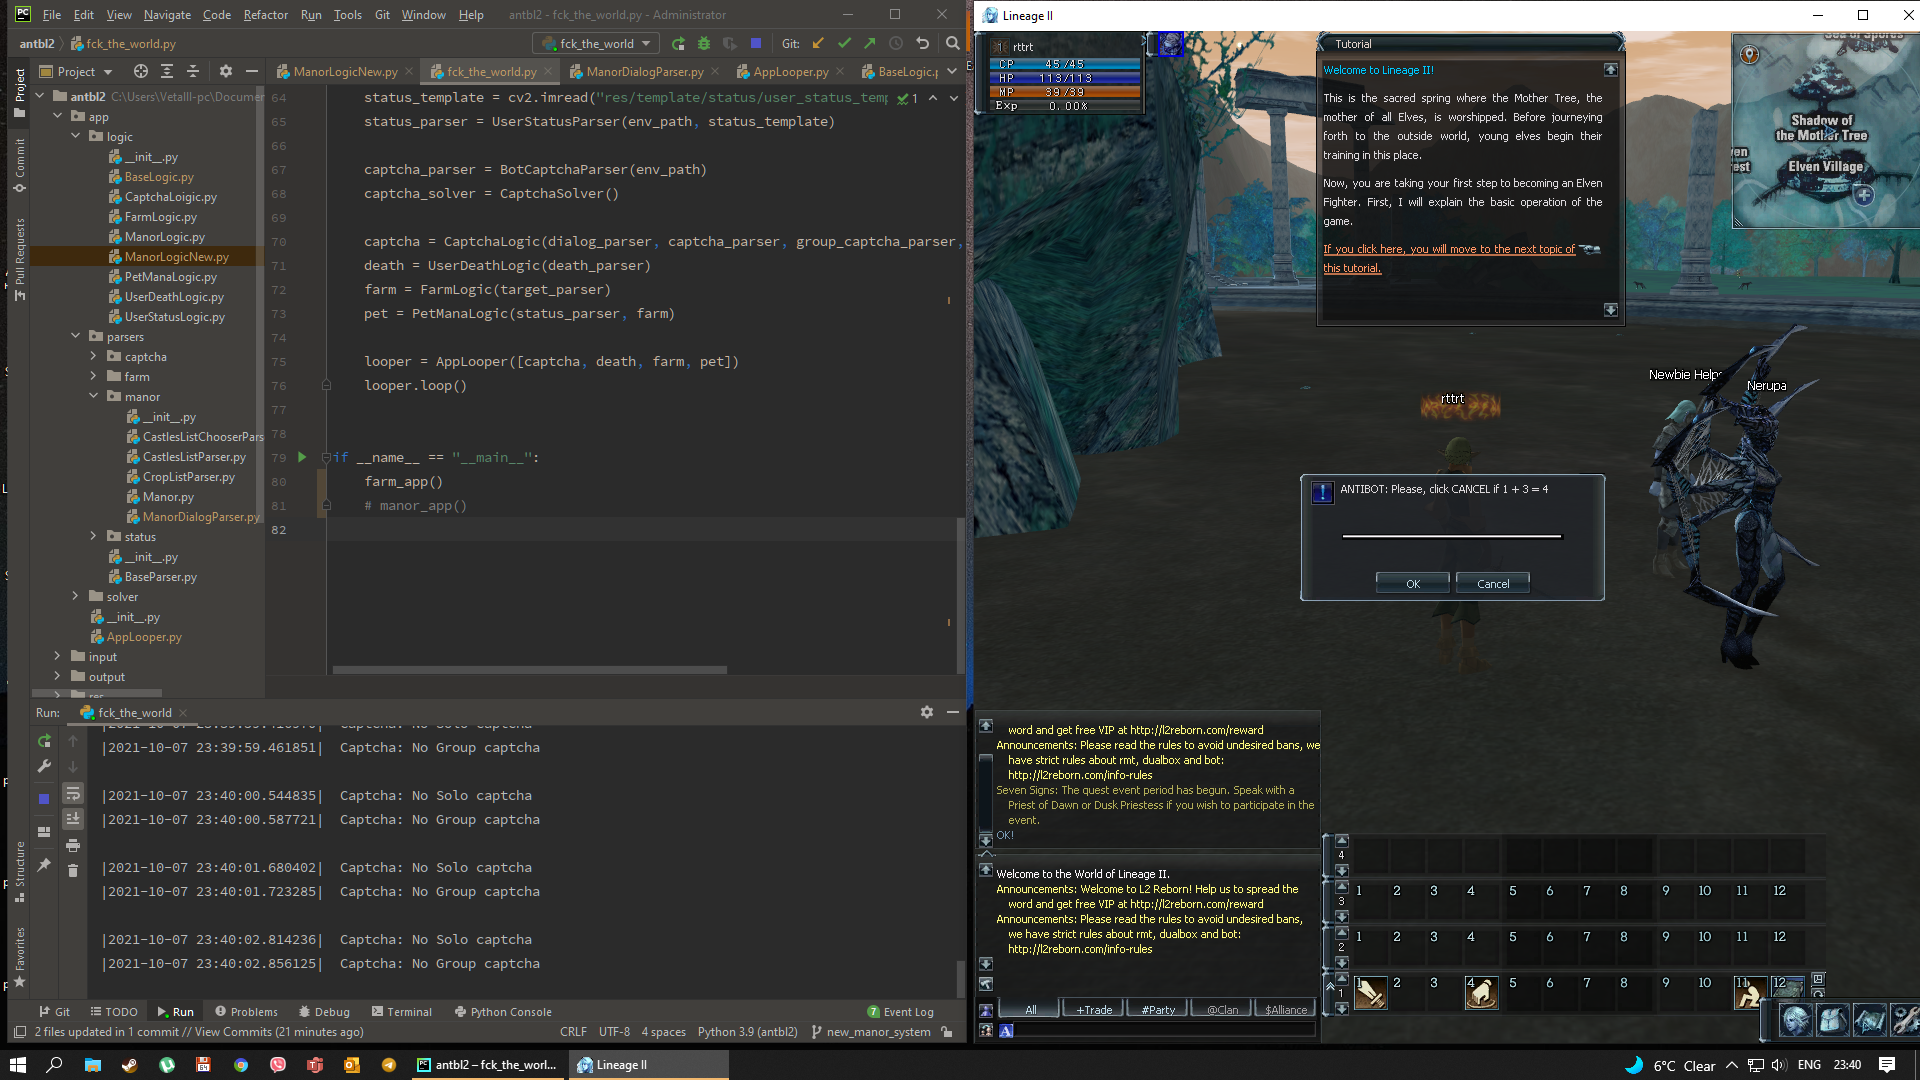
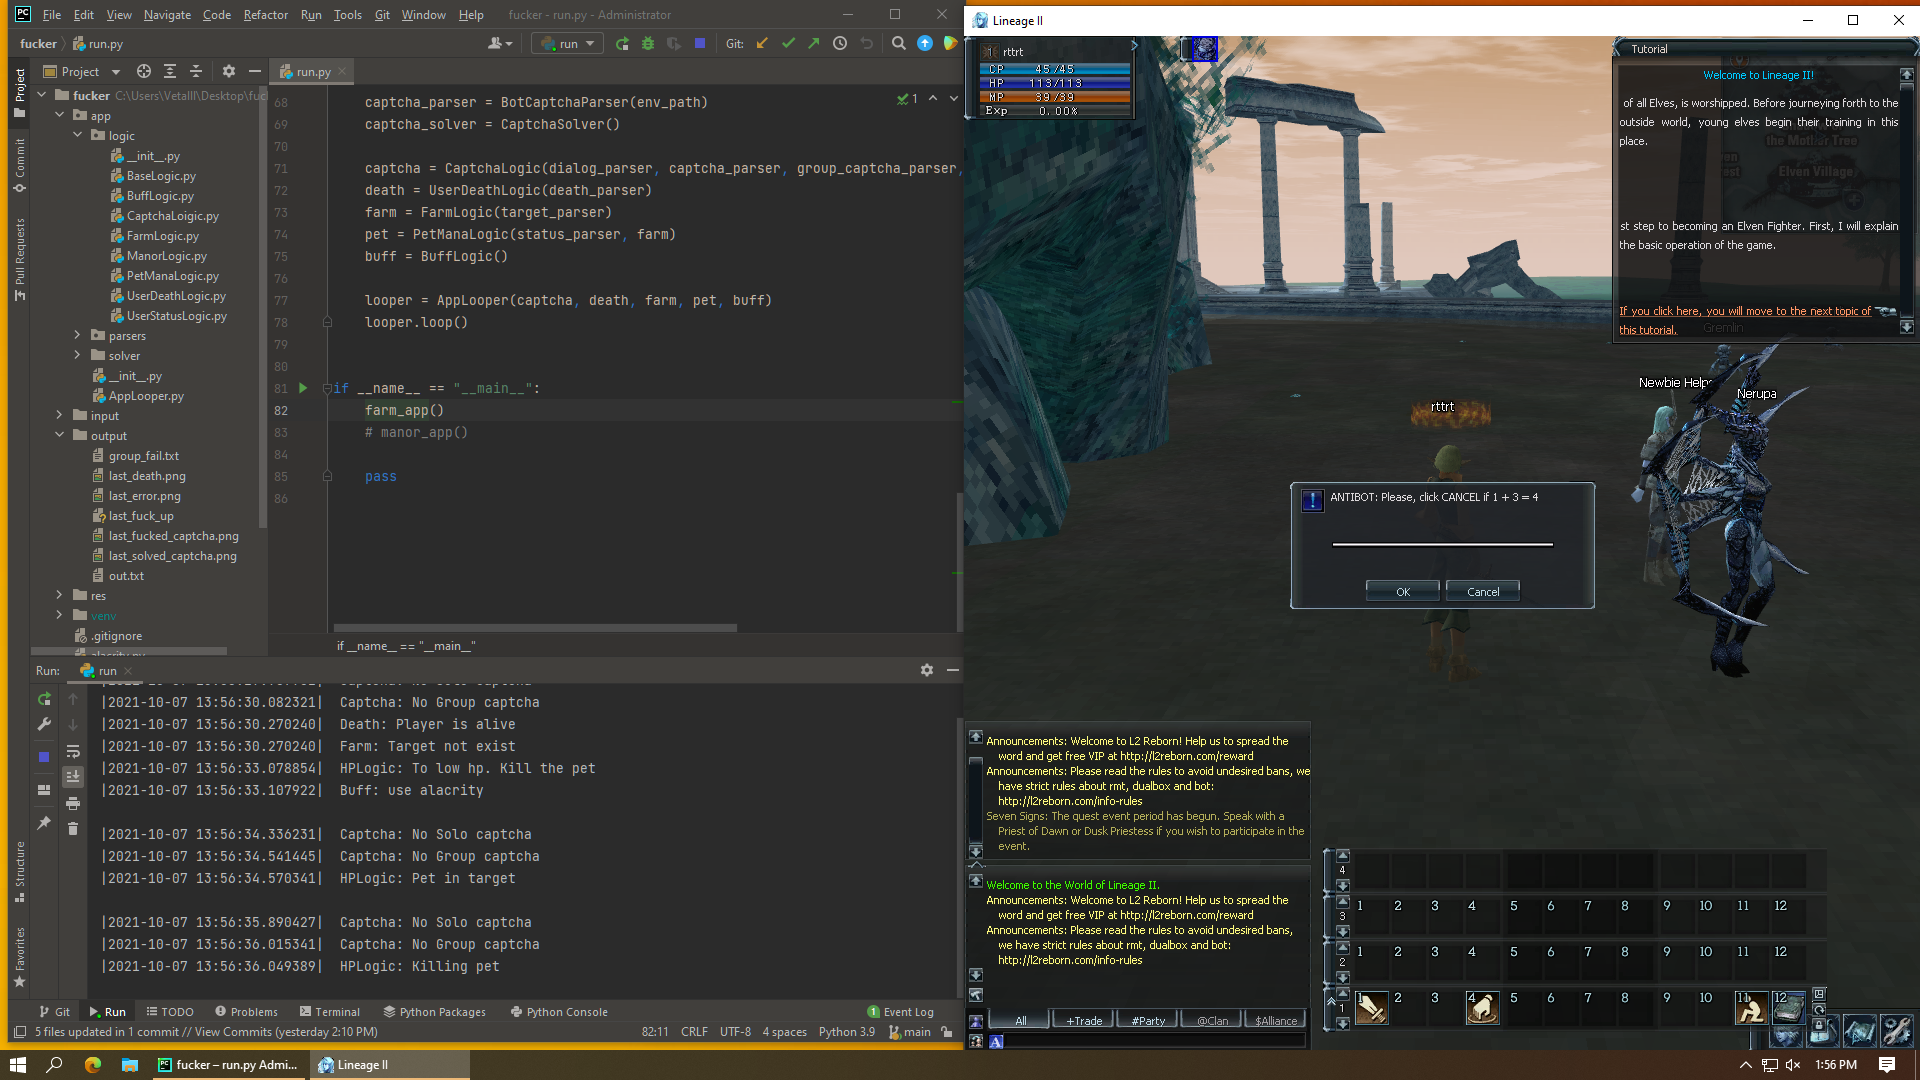
Merge + added delay for AppLooper

diff --git a/run.py b/run.py
@@ -26,7 +26,6 @@ env_path = os.path.dirname(os.path.realpath(__file__))
 
 
 def manor_app():
-    time.sleep(4)
     castles = [
         SellCastle("Aden", "Fake", start_index=2),
         SellCastle("Aden", "Fake", start_index=2)
@@ -60,7 +59,7 @@ def farm_app():
     death_parser = UserDeathStatusParser(env_path, death_template)
 
     target_template = cv2.imread("res/template/farm/target_template.png")
-    target_parser = TargetParser(env_path, target_template)
+    target_parser = TargetParser(env_path, target_template, True)
 
     status_template = cv2.imread("res/template/status/user_status_template.png")
     status_parser = UserStatusParser(env_path, status_template)
@@ -74,7 +73,7 @@ def farm_app():
     pet = PetManaLogic(status_parser, farm)
     buff = BuffLogic()
 
-    looper = AppLooper(captcha, death, farm, pet, buff)
+    looper = AppLooper(captcha, death, farm, pet)
     looper.loop()
 
 

diff --git a/app/parsers/farm/TargetParser.py b/app/parsers/farm/TargetParser.py
@@ -6,8 +6,8 @@ import cv2
 
 class TargetParser(BaseParser):
 
-    def __init__(self, output_path, target_template):
-        super().__init__(output_path)
+    def __init__(self, output_path, target_template, debug=False):
+        super().__init__(output_path, debug)
         self.target_template = cv2.cvtColor(target_template, cv2.COLOR_RGB2GRAY)
 
     def parse_image(self, image_rgb, *args, **kwargs):

diff --git a/app/AppLooper.py b/app/AppLooper.py
@@ -10,6 +10,8 @@ class AppLooper:
         self.handlers = handlers
 
     def loop(self):
+        time.sleep(4)
+
         while True:
             screenshot = ImageGrab.grab()
             array = np.array(screenshot)
